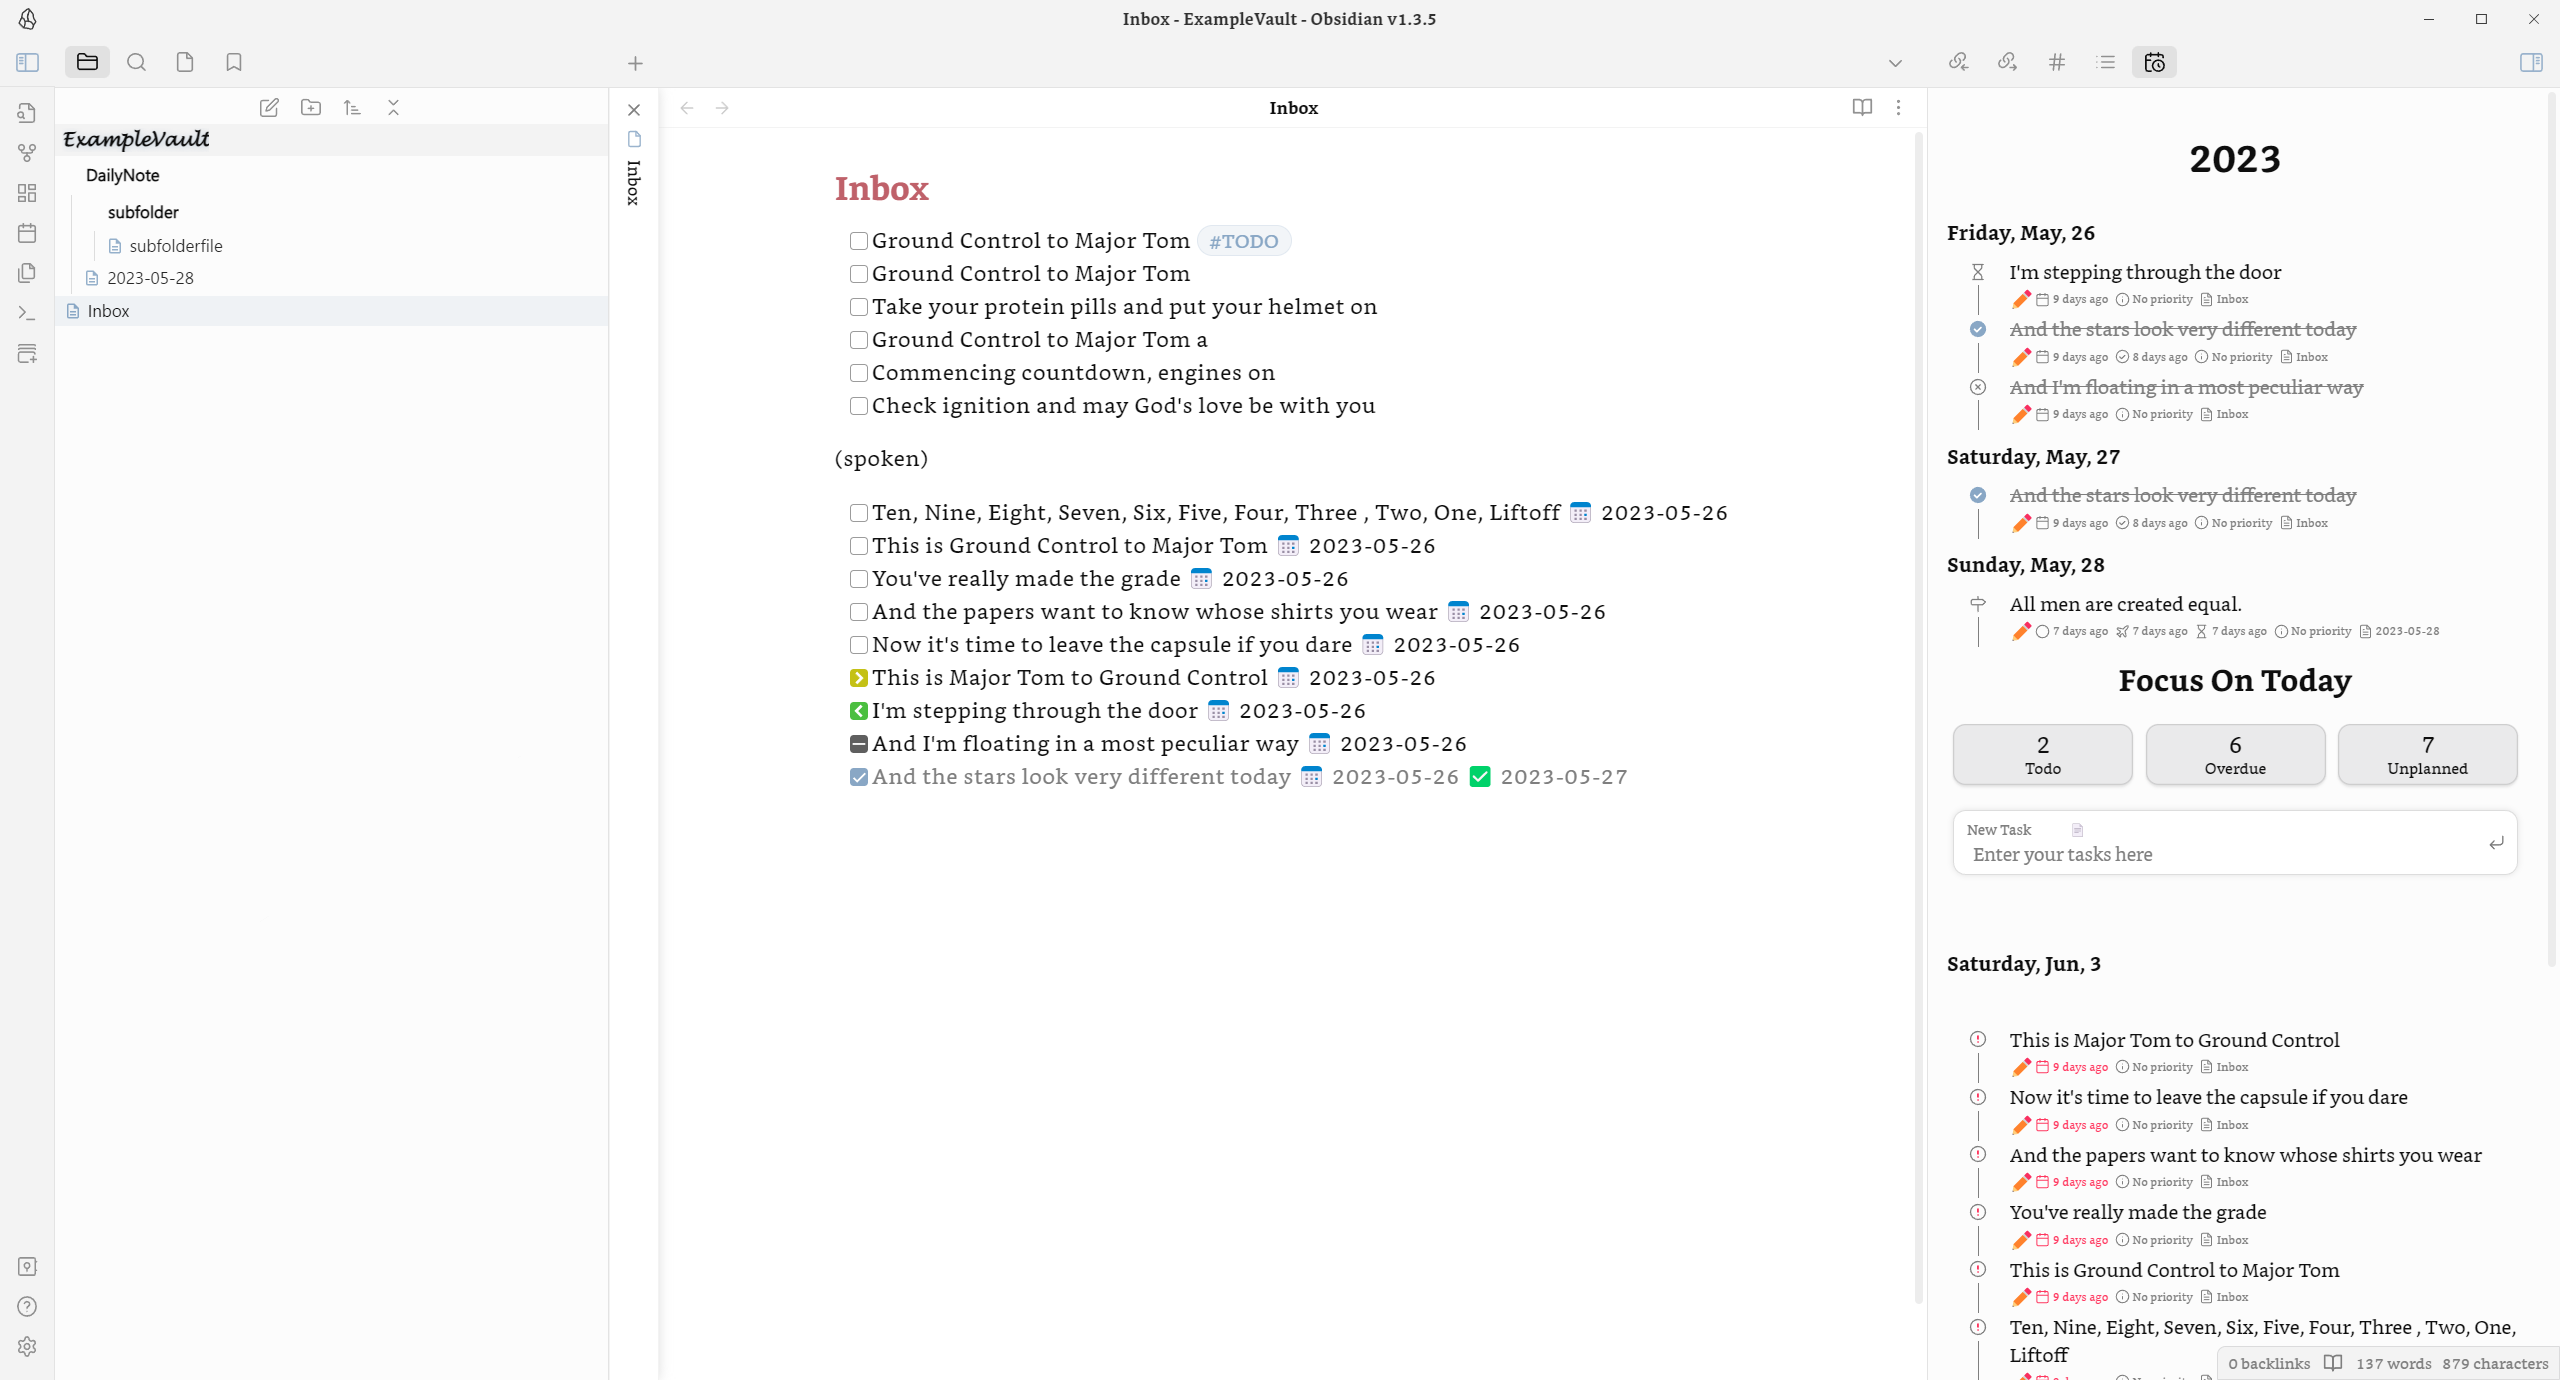
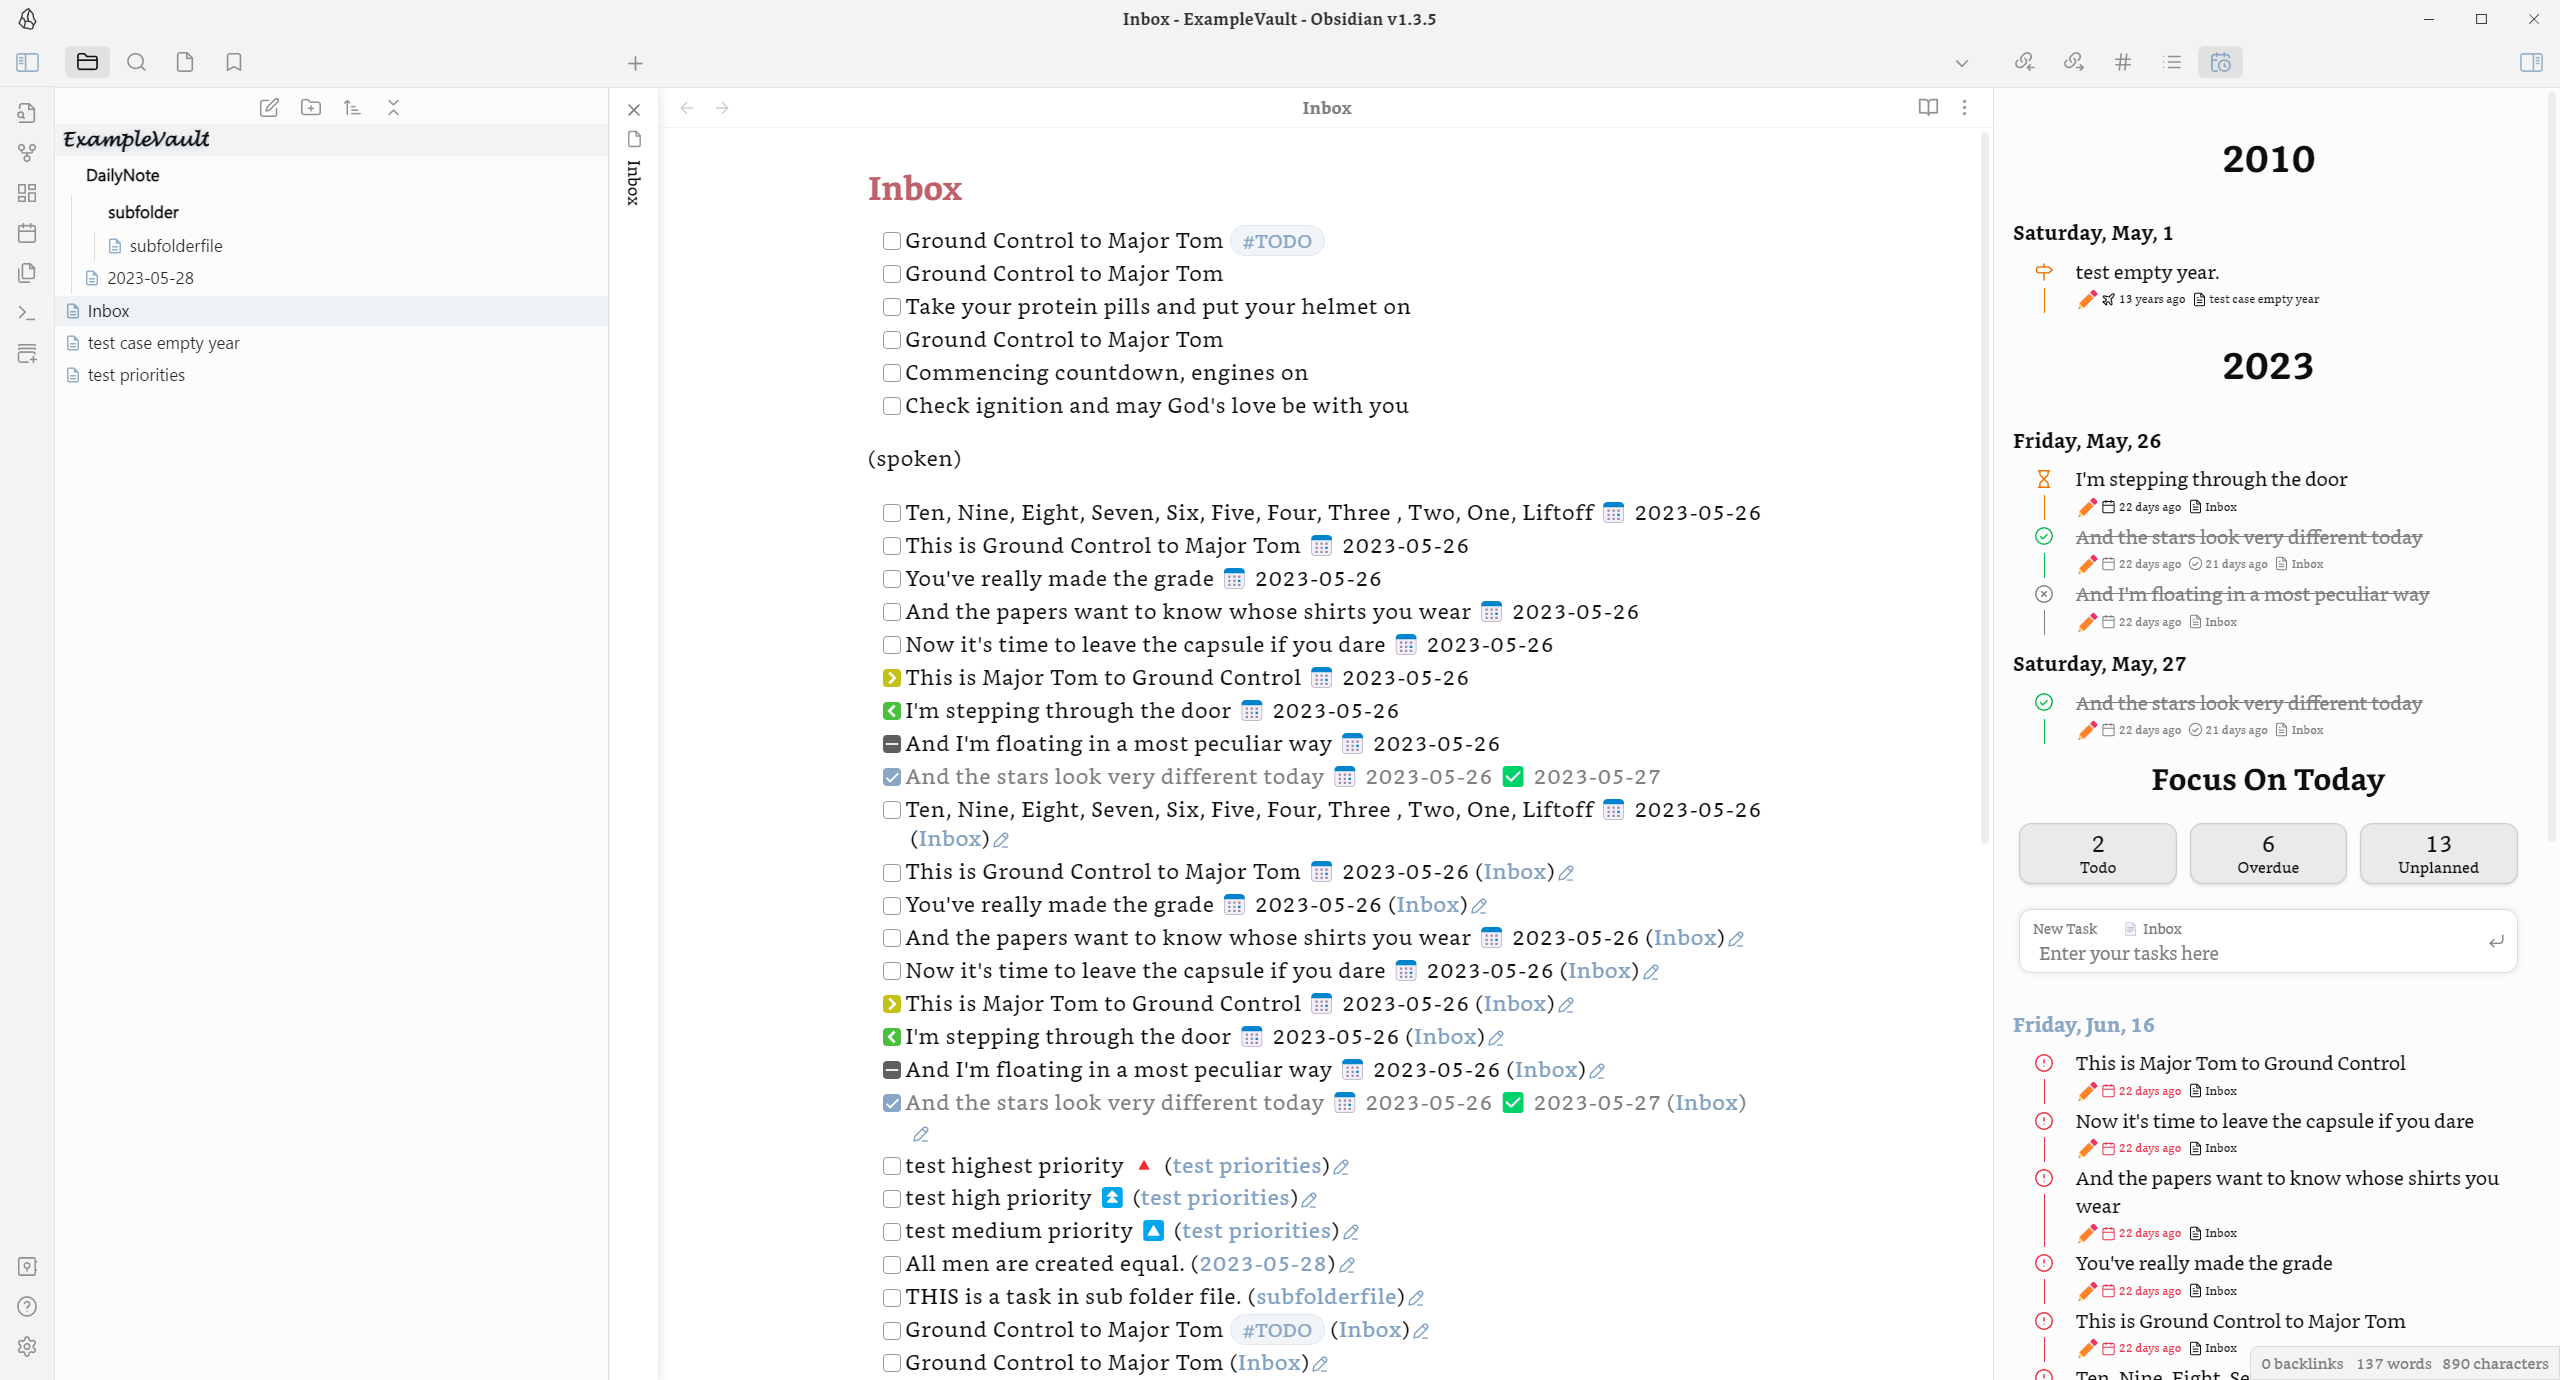
update doc

diff --git a/README.md b/README.md
@@ -74,9 +74,11 @@ Just some details to make it easier, you can input in the panel with some of the
 - start: 🛫 (for start date)
 - scheduled: ⏳ (for scheduled date)
 - done: ✅ (for done date)
+- highest: 🔺 (for priority highest)
 - high: ⏫ (for priority high)
 - medium: 🔼 (for priority medium)
 - low: 🔽 (for priority low)
+- lowest: ⏬ (for priority lowest)
 - repeat: 🔁 (for recurrence)
 - recurring: 🔁 (same as repeat)
 
